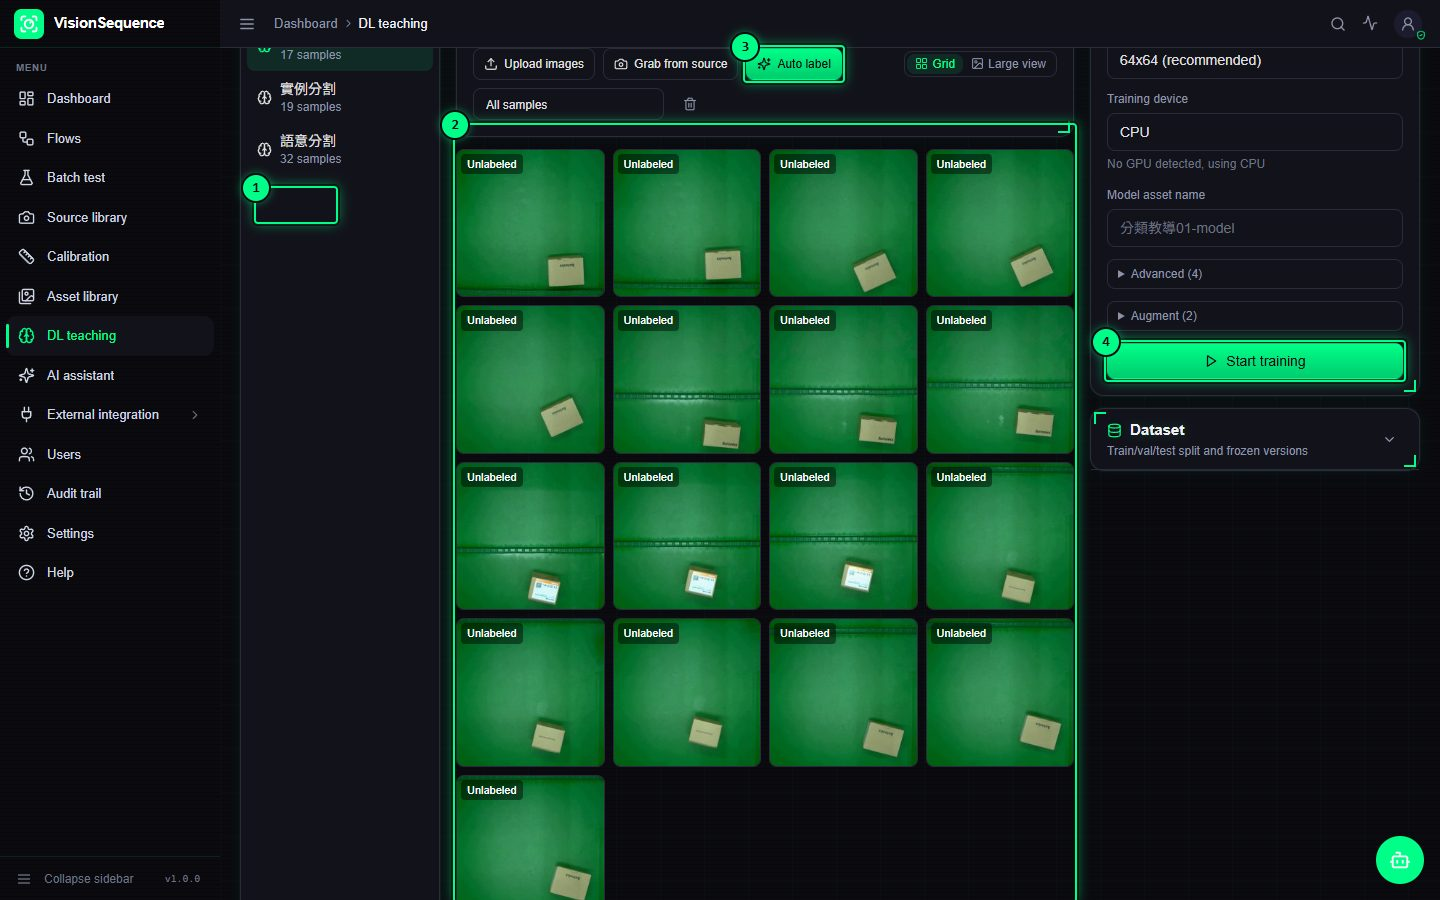
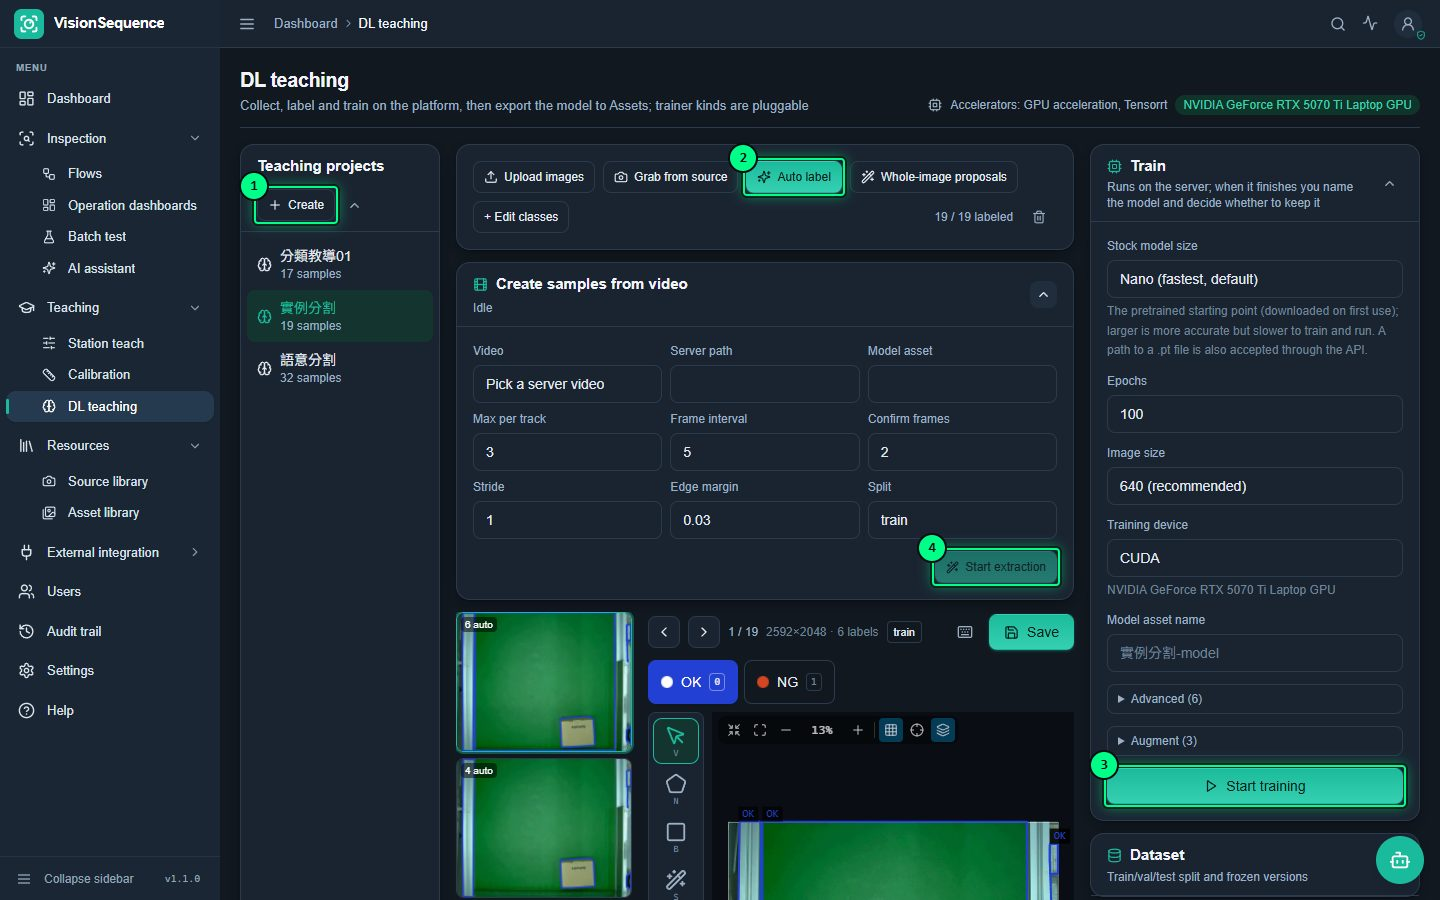
[VisionSequence] 輸送帶線收尾：DL 頁影片面板改成預設收合，使用者手冊補「從影片建立樣本」與「立體高度」兩張截圖
「從影片建立樣本」面板預設展開時把標記工作區整個往下推，改成可收合的 Panel（預設收合，有工作在跑或跑過時
自動展開）；開始鈕的測試 id 改為 dl-video-extract-start。docs_shot_page.mjs 加 dl 與 calibration-stereo 兩頁定義
（選專案、展開面板、切到 stereo 模式），並改成不捲動頁面、首屏外的目標當沒抓到——之前各目標捲到不同位置，
框會畫在錯的地方。手冊 DL 節的標記改成對應新截圖，標定節加「Stereo height」一圖與帶面基準說明。

驗證：前端 typecheck／175 項測試／build OK；docs_style --check OK；兩張圖用真瀏覽器重拍並人工看過標記位置。

diff --git a/VisionSequence/docs/user-guide.html b/VisionSequence/docs/user-guide.html
@@ -387,6 +387,13 @@
 <li data-n="6"><strong>Calculate</strong> works it out but does <em>not</em> save it: you first see how well it fits.</li>
 <li data-n="7"><strong>Save calibration</strong> stores it as an asset. Pick it afterwards in the Lens correction, Real-world coordinates or Pixel calibration step.</li>
 </ol></figcaption></figure>
+<figure class="shot"><img src="img/calibration-stereo.jpg" alt="Calibration › Stereo height"><figcaption><b>Stereo height</b> (a left/right camera pair measuring object height for robot picking)
+<ol class="callouts">
+<li data-n="1">The <strong>Stereo height</strong> mode: two cameras looking at the same belt from slightly different places; the difference between the two views gives the distance to each object.</li>
+<li data-n="2"><strong>Import stereo_config.json</strong> if the pair was calibrated elsewhere; only the two camera models and their relative pose are read, the rest is recomputed here.</li>
+<li data-n="3"><strong>Capture pair</strong> takes both pictures at once and lists every pair with its time offset and fit error; at least five pairs of the same board, then Calculate, then Save.</li>
+</ol></figcaption></figure>
+<p><strong>Belt height reference.</strong> Below the pair list, measure the empty belt once and type the robot Z that belt surface corresponds to; from then on the Stereo depth step reports each object top as an absolute robot Z, not just a distance from the camera. Without that reference the step still reports the distance and leaves Z empty.</p>
 <p><strong>Which way to use.</strong> If you only need measurements in millimetres, <em>Known distance</em> takes a minute: mark two points on something you have measured, type the distance. If the lens visibly bows straight edges near the corners, or the same part measures differently in the middle and at the edge of the field, use a <em>calibration board</em> &mdash; take three or more pictures with the board tilted and at different distances, filling the frame. If a robot has to go and pick the part up, use <em>Robot points</em>: jog the robot to three or more spots you can see, and type the coordinates it reports at each one.</p>
 <p><strong>Read the error before you save.</strong> Every method reports how well it fits. A board calibration shows the reprojection error per picture, so you can delete the one that was blurred and calculate again. Robot points show the error of <em>each</em> point, and the worst one is marked red on the image &mdash; usually that is where the robot was jogged to the wrong place or a coordinate was typed wrong. The result carries a plain verdict: good, fair, or do it again.</p>
 <p><strong>Marking points is forgiving.</strong> Click near a hole, a printed dot or a corner and the mark snaps to its centre, so you do not have to hit the exact pixel. Turn that off if you really want the spot you clicked.</p>
@@ -407,11 +414,12 @@
 <figure class="shot"><img src="img/dl.jpg" alt="The DL teaching page"><figcaption><b>DL teaching</b> (sidebar › DL teaching, route <code>/dl</code>)
 <ol class="callouts">
 <li data-n="1"><strong>New teaching project</strong>: choose the model kind (classification, semantic segmentation, instance segmentation, detection, pose, oriented boxes).</li>
-<li data-n="2">The <strong>sample grid</strong>: upload, a zip, a burst from a source, or import a dataset; duplicates are skipped automatically. Click a thumbnail to label it.</li>
-<li data-n="3"><strong>Auto-label</strong>: let the current model, or the smart-select model, propose labels that you confirm.</li>
-<li data-n="4"><strong>Train</strong>: split into train, val and test, freeze a dataset version and start training on the server; the finished model lands in the asset library.</li>
+<li data-n="2"><strong>Auto-label</strong>: let the current model, or the smart-select model, propose labels that you confirm.</li>
+<li data-n="3"><strong>Train</strong>: split into train, val and test, freeze a dataset version and start training on the server; the finished model lands in the asset library.</li>
+<li data-n="4"><strong>Create samples from video</strong> (collapsed until you open it): pick a video recorded by the capture client, the model to segment with, how many pictures to keep per tracked object and the frame interval between them; every kept frame becomes a sample with its objects already outlined, ready for correction.</li>
 </ol></figcaption></figure>
 <ol>
+<li>Samples: upload pictures or a zip, grab a burst from a source, import a dataset folder, or extract them from a video; duplicates are skipped automatically. Click a thumbnail to label it.</li>
 <li>Label: for classification, click a thumbnail and choose the class; for segmentation and detection, draw polygons or boxes, with "Smart select" clicking an object to trace it automatically.</li>
 <li>"Create a flow with this model" after training builds an acquire → inference flow and opens it in the editor.</li>
 </ol>

diff --git a/VisionSequence/frontend/src/components/dl/VideoExtractPanel.tsx b/VisionSequence/frontend/src/components/dl/VideoExtractPanel.tsx
@@ -9,7 +9,7 @@ import { useDlMutations, useDlVideoExtractStatus, useVisionVideos } from '@/lib/
 import type { DlProject } from '@/lib/types'
 import { useToast } from '@/providers/ToastProvider'
 
-import { Button, Card, CardBody, Select, TextInput } from '@/components/ui'
+import { Button, Panel, Select, TextInput } from '@/components/ui'
 
 export function VideoExtractPanel({ project }: { project: DlProject }) {
   const { t } = useTranslation()
@@ -81,13 +81,16 @@ export function VideoExtractPanel({ project }: { project: DlProject }) {
   }
 
   return (
-    <Card>
-      <CardBody className="space-y-3">
-        <div className="flex flex-wrap items-center gap-2">
-          <Film size={15} className="text-brand" />
-          <h2 className="text-sm font-semibold">{t('dl.videoExtract')}</h2>
-          <span className="ml-auto text-xs text-muted">{job.data ? t('dl.videoExtractProgress', { percent, saved: job.data.saved }) : t('dl.videoExtractIdle')}</span>
-        </div>
+    // 預設收合：展開時會把標記工作區整個往下推；有工作在跑（或跑過）時用 key 重掛載讓它自動展開
+    <Panel
+      key={job.data ? 'active' : 'idle'}
+      collapsible
+      defaultCollapsed={!job.data}
+      testId="dl-video-extract"
+      title={<span className="inline-flex items-center gap-2"><Film size={15} className="text-brand" />{t('dl.videoExtract')}</span>}
+      description={job.data ? t('dl.videoExtractProgress', { percent, saved: job.data.saved }) : t('dl.videoExtractIdle')}
+      bodyClassName="space-y-3 p-4"
+    >
         <div className="grid gap-2 md:grid-cols-2 xl:grid-cols-3">
           <Select label={t('dl.video')} value={video} onChange={(e) => setVideo(e.target.value)} options={options} placeholder={t('dl.videoPick')} disabled={running || videos.isLoading} />
           <TextInput label={t('dl.videoPath')} value={path} onChange={(e) => setPath(e.target.value)} disabled={running} />
@@ -124,12 +127,11 @@ export function VideoExtractPanel({ project }: { project: DlProject }) {
         ) : null}
         <div className="flex justify-end gap-2">
           {running ? <Button size="sm" onClick={() => void stop()} loading={stopVideoExtract.isPending}><Square size={13} /> {t('dl.videoStop')}</Button> : null}
-          <Button size="sm" variant="primary" disabled={!canStart || running} loading={startVideoExtract.isPending} onClick={() => void start()} data-testid="dl-video-extract">
+          <Button size="sm" variant="primary" disabled={!canStart || running} loading={startVideoExtract.isPending} onClick={() => void start()} data-testid="dl-video-extract-start">
             <Wand2 size={13} /> {t('dl.videoStart')}
           </Button>
         </div>
-      </CardBody>
-    </Card>
+    </Panel>
   )
 }
 
